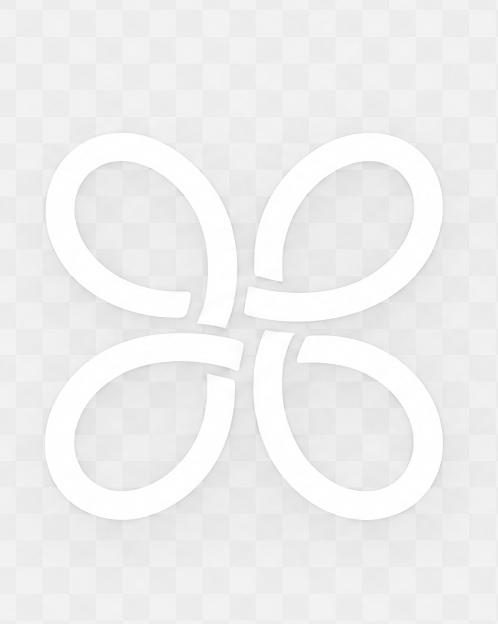
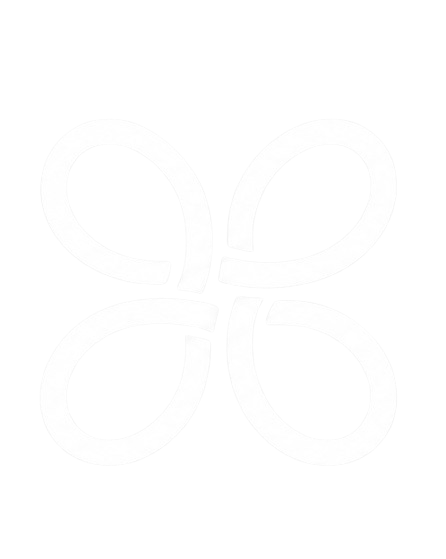
menu lateral novo empresa

diff --git a/app/empresa/page.tsx b/app/empresa/page.tsx
@@ -7,19 +7,18 @@ type Tema = "dark" | "light"
 
 const icones = {
   logoEmpresa: "/empresa_logo.png",
-  logoEmpresa2: "/empresa_loga.png",
-  logoNormal: "/logo.png",
-  dashboard: "/des.png",
+  dashboard: "/inicio.png",
   entregas: "/tipo_carga.png",
-  motorista: "/motorista_proximo.png",
-  veiculos: "/modelo_caminhao.png",
+  motorista: "/prefil_preto.png",
+  veiculos: "/caminhao_preto.png",
   clientes: "/cliente_empresa.png",
   crm: "/CRM.png",
-  financeiro: "/financeiro.png",
-  relatorios: "/status_frete.png",
-  mapa: "/destino_entrega.png",
+  financeiro: "/finaceiro.png",
+  relatorios: "/documento.png",
+  mapa: "/regiao.png",
   analytics: "/analyt.png",
   configuracao: "/configuracao.png",
+  sair: "/saida.png",
   notificacao: "/notificacao.png",
   concluido: "/concluido.png",
   andamento: "/caminhao_azul.png",
@@ -27,7 +26,6 @@ const icones = {
   dinheiro: "/dinheiro.png",
   pdf: "/PDF.png",
   excel: "/excel.png",
-  sair: "/saida.png",
   mapaBrasil: "/brasil_mapa.png",
 }
 
@@ -64,7 +62,7 @@ export default function PainelEmpresa() {
     pagina: claro ? "bg-[#f6f0df] text-[#111]" : "bg-[#020507] text-white",
     sidebar: claro ? "bg-white/82 border-[#dfd0a5]" : "bg-[#030506]/94 border-white/10",
     card: claro ? "border-[#dfd0a5] bg-white/90 shadow-[0_16px_45px_rgba(80,60,20,0.11)]" : "border-white/10 bg-[#10171b]/88 shadow-[0_18px_45px_rgba(0,0,0,0.30)]",
-    card2: claro ? "bg-[#f7f0dc] border-[#dfd0a5]" : "bg-white/[0.045] border-white/10",
+    card2: claro ? "border-[#dfd0a5] bg-[#f7f0dc]" : "border-white/10 bg-white/[0.045]",
     textoFraco: claro ? "text-black/55" : "text-white/58",
     linha: claro ? "border-[#dfd0a5]" : "border-white/10",
   }), [claro])
@@ -81,7 +79,6 @@ export default function PainelEmpresa() {
         <MenuLateral ui={ui} tema={tema} setTema={setTema} />
         <section className="min-w-0 px-7 py-6">
           <Topo periodo={periodo} setPeriodo={setPeriodo} ui={ui} />
-
           <div className="mt-6 grid grid-cols-5 gap-4">
             <Indicador ui={ui} titulo="Total de Entregas" valor="128" detalhe="↑ 18% vs período anterior" icone={icones.dashboard} tamanhoIcone="h-8 w-8" />
             <Indicador ui={ui} titulo="Concluídas" valor="96" detalhe="75% do total" icone={icones.concluido} tamanhoIcone="h-9 w-9" />
@@ -92,9 +89,7 @@ export default function PainelEmpresa() {
 
           <div className="mt-5 grid grid-cols-[0.86fr_1.34fr_0.58fr] gap-5">
             <Card ui={ui} titulo="Entregas por Período" acao="7 dias"><GraficoLinha /></Card>
-            <Card ui={ui} titulo="CRM - Pipeline de Negócios">
-              {crmConectado ? <CRM ui={ui} /> : <ConectarCRM ui={ui} onClick={() => setCrmConectado(true)} />}
-            </Card>
+            <Card ui={ui} titulo="CRM - Pipeline de Negócios">{crmConectado ? <CRM ui={ui} /> : <ConectarCRM ui={ui} onClick={() => setCrmConectado(true)} />}</Card>
             <Card ui={ui} titulo="Exportar Relatórios"><Exportar ui={ui} /></Card>
           </div>
 
@@ -113,7 +108,7 @@ export default function PainelEmpresa() {
         <div className="mx-auto max-w-[430px]">
           <header className="flex items-center justify-between">
             <button className="text-3xl">☰</button>
-            <LogoEmpresa className="h-[74px] w-[225px] object-contain" />
+            <LogoMarcaMobile />
             <button className="relative">
               <img src={icones.notificacao} alt="" className="h-8 w-8 object-contain" />
               <span className="absolute -right-1 -top-1 h-2.5 w-2.5 rounded-full bg-[#ffc400]" />
@@ -159,8 +154,16 @@ export default function PainelEmpresa() {
   )
 }
 
-function LogoEmpresa({ className }: { className: string }) {
-  return <img src={icones.logoEmpresa2} onError={(e) => { e.currentTarget.src = icones.logoEmpresa }} alt="FlatAuto Empresa" className={className} />
+function LogoMarcaMobile() {
+  return (
+    <div className="flex items-center gap-3">
+      <img src={icones.logoEmpresa} alt="FlatAuto" className="h-12 w-12 object-contain" />
+      <div>
+        <p className="text-[20px] font-black leading-none tracking-wide">FLAT<span className="text-[#ffc400]">AUTO</span></p>
+        <p className="mt-1 text-[10px] font-bold tracking-[0.2em] text-[#ffc400]">EMPRESA</p>
+      </div>
+    </div>
+  )
 }
 
 function Topo({ periodo, setPeriodo, ui }: any) {
@@ -197,10 +200,17 @@ function MenuLateral({ ui, tema, setTema }: any) {
 
   return (
     <aside className={`border-r px-5 py-7 backdrop-blur-xl ${ui.sidebar}`}>
-      <LogoEmpresa className="h-[92px] w-[245px] object-contain object-left drop-shadow-[0_0_22px_rgba(255,196,0,0.20)]" />
-      <nav className="mt-7 space-y-2">
+      <div className="flex items-center gap-3">
+        <img src={icones.logoEmpresa} alt="FlatAuto" className="h-14 w-14 object-contain" />
+        <div>
+          <p className="text-[21px] font-black leading-none tracking-wide">FLAT<span className="text-[#ffc400]">AUTO</span></p>
+          <p className="mt-1 text-xs font-bold tracking-[0.18em] text-[#ffc400]">EMPRESA</p>
+        </div>
+      </div>
+
+      <nav className="mt-9 space-y-2">
         {menu.map((item) => (
-          <button key={item.texto} className={`flex min-h-[52px] w-full items-center gap-4 rounded-2xl px-4 text-left font-bold transition ${item.ativo ? "bg-[#ffc400] text-black shadow-[0_0_30px_rgba(255,196,0,0.24)]" : "opacity-75 hover:bg-white/[0.06] hover:opacity-100"}`}>
+          <button key={item.texto} className={`flex min-h-[52px] w-full items-center gap-4 rounded-2xl px-4 text-left font-bold transition ${item.ativo ? "bg-[#ffc400] text-black shadow-[0_0_28px_rgba(255,196,0,0.22)]" : "text-white/75 hover:bg-white/[0.06] hover:text-[#ffc400]"}`}>
             <img src={item.icone} alt="" className={`${item.size} shrink-0 object-contain`} />
             <span className="flex-1">{item.texto}</span>
             {item.badge && <span className="rounded-md border border-[#ffc400]/70 px-2 py-0.5 text-[10px] text-[#ffc400]">{item.badge}</span>}
@@ -210,9 +220,7 @@ function MenuLateral({ ui, tema, setTema }: any) {
 
       <div className={`mt-8 rounded-2xl border p-4 ${ui.card}`}>
         <div className="flex items-center gap-3">
-          <div className="flex h-14 w-14 items-center justify-center rounded-full border border-[#ffc400]/70 bg-[#ffc400]/10">
-            <img src={icones.entregas} alt="" className="h-9 w-9 object-contain" />
-          </div>
+          <img src={icones.entregas} alt="" className="h-9 w-9 object-contain" />
           <div>
             <p className="text-sm font-bold leading-tight">Transportes Silva LTDA</p>
             <p className={`mt-1 text-xs ${ui.textoFraco}`}>Plano Empresarial</p>
@@ -221,7 +229,8 @@ function MenuLateral({ ui, tema, setTema }: any) {
       </div>
 
       <button className={`mt-4 flex h-14 w-full items-center justify-center gap-3 rounded-2xl border font-bold ${ui.card2}`}>
-        <img src={icones.sair} alt="" className="h-6 w-6 object-contain" /> Sair
+        <img src={icones.sair} alt="" className="h-6 w-6 object-contain" />
+        Sair
       </button>
 
       <div className={`mt-8 flex items-center justify-between rounded-full border p-2 ${ui.card2}`}>
@@ -256,9 +265,7 @@ function Indicador({ titulo, valor, detalhe, icone, tamanhoIcone, ui, azul, verm
           <p className={`${mobile ? "text-xs" : "text-sm"} ${ui.textoFraco}`}>{titulo}</p>
           <p className={`${mobile ? "mt-3 text-[32px]" : "mt-4 text-[34px]"} font-black leading-none`}>{valor}</p>
         </div>
-        <div className="flex h-14 w-14 shrink-0 items-center justify-center rounded-2xl border border-[#ffc400]/20 bg-[#ffc400]/12">
-          <img src={icone} alt="" className={`${tamanhoIcone} object-contain`} />
-        </div>
+        <div className="flex h-14 w-14 shrink-0 items-center justify-center rounded-2xl border border-[#ffc400]/20 bg-[#ffc400]/12"><img src={icone} alt="" className={`${tamanhoIcone} object-contain`} /></div>
       </div>
       <p className={`relative mt-4 text-sm ${cor}`}>{detalhe}</p>
     </div>
@@ -270,21 +277,12 @@ function GraficoLinha({ mobile = false }: { mobile?: boolean }) {
     <div className={`${mobile ? "h-[190px]" : "h-[260px]"} relative`}>
       <div className="absolute inset-0 rounded-2xl bg-[linear-gradient(rgba(255,255,255,0.04)_1px,transparent_1px)] bg-[size:100%_52px]" />
       <svg viewBox="0 0 700 260" className="relative h-full w-full overflow-visible">
-        <defs>
-          <linearGradient id="graficoAreaEmpresa" x1="0" x2="0" y1="0" y2="1">
-            <stop offset="0%" stopColor="#ffc400" stopOpacity="0.55" />
-            <stop offset="100%" stopColor="#ffc400" stopOpacity="0.03" />
-          </linearGradient>
-        </defs>
+        <defs><linearGradient id="graficoAreaEmpresa" x1="0" x2="0" y1="0" y2="1"><stop offset="0%" stopColor="#ffc400" stopOpacity="0.55" /><stop offset="100%" stopColor="#ffc400" stopOpacity="0.03" /></linearGradient></defs>
         <path d="M30 215 L130 160 L230 190 L330 128 L430 62 L530 118 L630 52 L630 230 L30 230 Z" fill="url(#graficoAreaEmpresa)" />
         <polyline points="30,215 130,160 230,190 330,128 430,62 530,118 630,52" fill="none" stroke="#ffc400" strokeWidth="5" strokeLinecap="round" strokeLinejoin="round" />
-        {[30, 130, 230, 330, 430, 530, 630].map((x, i) => (
-          <circle key={x} cx={x} cy={[215, 160, 190, 128, 62, 118, 52][i]} r="8" fill="#ffc400" />
-        ))}
+        {[30, 130, 230, 330, 430, 530, 630].map((x, i) => <circle key={x} cx={x} cy={[215, 160, 190, 128, 62, 118, 52][i]} r="8" fill="#ffc400" />)}
       </svg>
-      <div className="-mt-4 grid grid-cols-7 text-center text-xs opacity-55">
-        {["12/05", "13/05", "14/05", "15/05", "16/05", "17/05", "18/05"].map((d) => <span key={d}>{d}</span>)}
-      </div>
+      <div className="-mt-4 grid grid-cols-7 text-center text-xs opacity-55">{["12/05", "13/05", "14/05", "15/05", "16/05", "17/05", "18/05"].map((d) => <span key={d}>{d}</span>)}</div>
     </div>
   )
 }
@@ -292,9 +290,7 @@ function GraficoLinha({ mobile = false }: { mobile?: boolean }) {
 function ConectarCRM({ ui, onClick, mobile }: any) {
   return (
     <div className={`flex ${mobile ? "flex-col" : "items-center"} gap-4 rounded-2xl border p-5 ${ui.card2}`}>
-      <div className="flex h-[76px] w-[76px] shrink-0 items-center justify-center rounded-2xl border border-[#ffc400]/35 bg-[#ffc400]/10">
-        <img src={icones.crm} alt="" className="h-12 w-12 object-contain" />
-      </div>
+      <div className="flex h-[76px] w-[76px] shrink-0 items-center justify-center rounded-2xl border border-[#ffc400]/35 bg-[#ffc400]/10"><img src={icones.crm} alt="" className="h-12 w-12 object-contain" /></div>
       <div className="flex-1">
         <h3 className="text-lg font-black">Conecte seu CRM</h3>
         <p className={`mt-2 text-sm ${ui.textoFraco}`}>Integre seu CRM para visualizar leads, negociações e oportunidades direto no painel.</p>
@@ -309,19 +305,8 @@ function CRM({ ui, mobile }: any) {
     <div className={`grid ${mobile ? "grid-cols-3 overflow-x-auto" : "grid-cols-4"} gap-3`}>
       {crmColunas.map((coluna) => (
         <div key={coluna.nome} className={`min-w-[132px] rounded-xl border p-3 ${coluna.cor}`}>
-          <div className="mb-3 flex items-center justify-between">
-            <h3 className="text-sm font-black">{coluna.nome}</h3>
-            <span className="rounded-full bg-[#ffc400]/20 px-2 text-xs text-[#ffc400]">{coluna.total}</span>
-          </div>
-          <div className="space-y-2">
-            {coluna.itens.slice(0, mobile ? 1 : 2).map((item) => (
-              <div key={item.nome} className={`rounded-lg border p-3 ${ui.card2}`}>
-                <p className="text-xs font-bold">{item.nome}</p>
-                <p className={`mt-1 text-[11px] ${ui.textoFraco}`}>{item.local}</p>
-                <p className="mt-2 text-xs font-bold">{item.valor}</p>
-              </div>
-            ))}
-          </div>
+          <div className="mb-3 flex items-center justify-between"><h3 className="text-sm font-black">{coluna.nome}</h3><span className="rounded-full bg-[#ffc400]/20 px-2 text-xs text-[#ffc400]">{coluna.total}</span></div>
+          <div className="space-y-2">{coluna.itens.slice(0, mobile ? 1 : 2).map((item) => <div key={item.nome} className={`rounded-lg border p-3 ${ui.card2}`}><p className="text-xs font-bold">{item.nome}</p><p className={`mt-1 text-[11px] ${ui.textoFraco}`}>{item.local}</p><p className="mt-2 text-xs font-bold">{item.valor}</p></div>)}</div>
         </div>
       ))}
     </div>
@@ -332,11 +317,7 @@ function Exportar({ ui }: any) {
   return (
     <div>
       <p className={`text-sm ${ui.textoFraco}`}>Gere relatórios personalizados por cliente ou geral da operação.</p>
-      <select className={`mt-4 h-11 w-full rounded-xl border px-3 text-sm outline-none ${ui.card2}`}>
-        <option>Relatório Geral</option>
-        <option>Por Cliente</option>
-        <option>Financeiro</option>
-      </select>
+      <select className={`mt-4 h-11 w-full rounded-xl border px-3 text-sm outline-none ${ui.card2}`}><option>Relatório Geral</option><option>Por Cliente</option><option>Financeiro</option></select>
       <div className="mt-5 grid grid-cols-2 gap-3">
         <button className="flex h-12 items-center justify-center gap-2 rounded-xl bg-[#ffc400] font-black text-black"><img src={icones.pdf} alt="" className="h-7 w-7" />PDF</button>
         <button className="flex h-12 items-center justify-center gap-2 rounded-xl bg-green-600 font-black text-white"><img src={icones.excel} alt="" className="h-7 w-7" />Excel</button>
@@ -350,23 +331,12 @@ function MapaBrasil({ ui, mobile }: any) {
     <div className={`grid ${mobile ? "grid-cols-1" : "grid-cols-[1fr_0.9fr]"} gap-4`}>
       <div className={`relative h-[260px] overflow-hidden rounded-2xl border ${ui.card2}`}>
         <img src={icones.mapaBrasil} alt="Mapa do Brasil" className="absolute inset-0 h-full w-full object-contain opacity-90" onError={(e) => { e.currentTarget.style.display = "none" }} />
-
-        {/* Pontos temporários. Depois o backend gera isso com base nos destinos reais. */}
-        {destinos.map((destino) => (
-          <span key={destino.cidade} title={destino.cidade} className="absolute h-3.5 w-3.5 rounded-full bg-[#ffc400] shadow-[0_0_22px_#ffc400]" style={{ left: destino.left, top: destino.top }} />
-        ))}
-
+        {destinos.map((destino) => <span key={destino.cidade} title={destino.cidade} className="absolute h-3.5 w-3.5 rounded-full bg-[#ffc400] shadow-[0_0_22px_#ffc400]" style={{ left: destino.left, top: destino.top }} />)}
         <div className="absolute left-4 top-4 rounded-xl bg-black/45 px-3 py-2 text-xs text-white">Mapa do Brasil</div>
       </div>
-
       <div className="space-y-2">
         <p className={`text-sm font-bold ${ui.textoFraco}`}>Top Destinos</p>
-        {destinos.map((destino) => (
-          <div key={destino.cidade} className="flex items-center justify-between text-sm">
-            <span>{destino.cidade}</span>
-            <strong>{destino.total}</strong>
-          </div>
-        ))}
+        {destinos.map((destino) => <div key={destino.cidade} className="flex items-center justify-between text-sm"><span>{destino.cidade}</span><strong>{destino.total}</strong></div>)}
         <button className="pt-1 text-sm font-bold text-[#ffc400]">Ver mapa completo</button>
       </div>
     </div>
@@ -374,80 +344,23 @@ function MapaBrasil({ ui, mobile }: any) {
 }
 
 function Financeiro({ ui, mobile }: any) {
-  const itens = [
-    ["Faturamento Bruto", "R$ 24.560,00", "↑ 22% vs mês anterior", "text-green-400"],
-    ["Repasse Motorista", "R$ 8.340,00", "34% do bruto", "text-red-400"],
-    ["Despesas", "R$ 5.420,00", "22% do líquido", "text-red-400"],
-    ["Faturamento Líquido", "R$ 10.800,00", "↑ 18% vs mês anterior", "text-green-400"],
-    ["Lucro Líquido", "R$ 4.380,00", "↑ 26% vs mês anterior", "text-green-400"],
-  ]
-
-  return (
-    <div className={`grid ${mobile ? "grid-cols-1" : "grid-cols-5"} gap-3`}>
-      {itens.map(([titulo, valor, detalhe, cor]) => (
-        <div key={titulo} className={`rounded-xl border p-4 ${ui.card2}`}>
-          <p className={`text-xs ${ui.textoFraco}`}>{titulo}</p>
-          <p className="mt-3 text-[22px] font-black">{valor}</p>
-          <p className={`mt-2 text-xs ${cor}`}>{detalhe}</p>
-        </div>
-      ))}
-    </div>
-  )
+  const itens = [["Faturamento Bruto", "R$ 24.560,00", "↑ 22% vs mês anterior", "text-green-400"], ["Repasse Motorista", "R$ 8.340,00", "34% do bruto", "text-red-400"], ["Despesas", "R$ 5.420,00", "22% do líquido", "text-red-400"], ["Faturamento Líquido", "R$ 10.800,00", "↑ 18% vs mês anterior", "text-green-400"], ["Lucro Líquido", "R$ 4.380,00", "↑ 26% vs mês anterior", "text-green-400"]]
+  return <div className={`grid ${mobile ? "grid-cols-1" : "grid-cols-5"} gap-3`}>{itens.map(([titulo, valor, detalhe, cor]) => <div key={titulo} className={`rounded-xl border p-4 ${ui.card2}`}><p className={`text-xs ${ui.textoFraco}`}>{titulo}</p><p className="mt-3 text-[22px] font-black">{valor}</p><p className={`mt-2 text-xs ${cor}`}>{detalhe}</p></div>)}</div>
 }
 
 function Tabela({ ui }: any) {
   return (
     <div className="overflow-x-auto">
       <table className="w-full min-w-[980px] text-left text-sm">
-        <thead>
-          <tr className={`border-b ${ui.linha} ${ui.textoFraco}`}>
-            <th className="pb-4">ID</th>
-            <th className="pb-4">Data</th>
-            <th className="pb-4">Cliente</th>
-            <th className="pb-4">Origem</th>
-            <th className="pb-4">Destino</th>
-            <th className="pb-4">Motorista</th>
-            <th className="pb-4">Valor</th>
-            <th className="pb-4">Status</th>
-          </tr>
-        </thead>
-        <tbody>
-          {entregas.map((entrega) => (
-            <tr key={entrega.id} className={`border-b ${ui.linha}`}>
-              <td className="py-4">{entrega.id}</td>
-              <td>{entrega.data}</td>
-              <td>{entrega.cliente}</td>
-              <td>{entrega.origem}</td>
-              <td>{entrega.destino}</td>
-              <td>{entrega.motorista}</td>
-              <td>{entrega.valor}</td>
-              <td><Status status={entrega.status} /></td>
-            </tr>
-          ))}
-        </tbody>
+        <thead><tr className={`border-b ${ui.linha} ${ui.textoFraco}`}><th className="pb-4">ID</th><th className="pb-4">Data</th><th className="pb-4">Cliente</th><th className="pb-4">Origem</th><th className="pb-4">Destino</th><th className="pb-4">Motorista</th><th className="pb-4">Valor</th><th className="pb-4">Status</th></tr></thead>
+        <tbody>{entregas.map((entrega) => <tr key={entrega.id} className={`border-b ${ui.linha}`}><td className="py-4">{entrega.id}</td><td>{entrega.data}</td><td>{entrega.cliente}</td><td>{entrega.origem}</td><td>{entrega.destino}</td><td>{entrega.motorista}</td><td>{entrega.valor}</td><td><Status status={entrega.status} /></td></tr>)}</tbody>
       </table>
     </div>
   )
 }
 
 function ListaMobile({ ui }: any) {
-  return (
-    <div className="space-y-3">
-      {entregas.map((entrega) => (
-        <div key={entrega.id} className={`rounded-xl border p-4 ${ui.card2}`}>
-          <div className="flex items-start justify-between gap-3">
-            <div>
-              <p className={`text-sm ${ui.textoFraco}`}>{entrega.id} • {entrega.data}</p>
-              <p className="mt-1 font-bold">{entrega.cliente}</p>
-              <p className={`mt-1 text-sm ${ui.textoFraco}`}>{entrega.origem} → {entrega.destino}</p>
-              <p className="mt-2 text-sm font-bold">{entrega.valor}</p>
-            </div>
-            <Status status={entrega.status} />
-          </div>
-        </div>
-      ))}
-    </div>
-  )
+  return <div className="space-y-3">{entregas.map((entrega) => <div key={entrega.id} className={`rounded-xl border p-4 ${ui.card2}`}><div className="flex items-start justify-between gap-3"><div><p className={`text-sm ${ui.textoFraco}`}>{entrega.id} • {entrega.data}</p><p className="mt-1 font-bold">{entrega.cliente}</p><p className={`mt-1 text-sm ${ui.textoFraco}`}>{entrega.origem} → {entrega.destino}</p><p className="mt-2 text-sm font-bold">{entrega.valor}</p></div><Status status={entrega.status} /></div></div>)}</div>
 }
 
 function Status({ status }: { status: StatusEntrega }) {
@@ -456,10 +369,5 @@ function Status({ status }: { status: StatusEntrega }) {
 }
 
 function NavMobile({ icone, texto, ativo }: any) {
-  return (
-    <button className="flex flex-col items-center gap-1">
-      <img src={icone} alt="" className="h-7 w-7 object-contain" />
-      <span className={`text-[11px] ${ativo ? "text-[#ffc400]" : "opacity-55"}`}>{texto}</span>
-    </button>
-  )
+  return <button className="flex flex-col items-center gap-1"><img src={icone} alt="" className="h-7 w-7 object-contain" /><span className={`text-[11px] ${ativo ? "text-[#ffc400]" : "opacity-55"}`}>{texto}</span></button>
 }